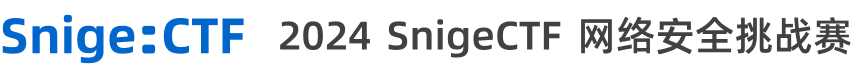
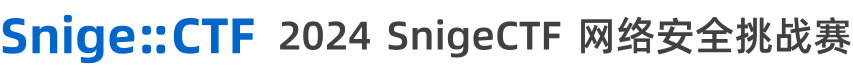
edit title text

Changed region(s): [[0.1524, 0.2571, 0.3048, 0.7714]]

diff --git a/src/GZCTF/ClientApp/src/pages/Index.tsx b/src/GZCTF/ClientApp/src/pages/Index.tsx
@@ -185,7 +185,7 @@ const Home: FC = () => {
                   </div>
                 </div>
                 <div className='centent-introduce-centent'>
-                  <div className='centent-introduce-centent-detail'>2024“源鲁杯”高校网络安全技能大赛是由山东源鲁信息科技有限公司举办的网络安全公开赛事，采用线上CTF解题赛的形式进行。大赛旨在为高校学生提供展示才华和交流学习的平台，重点考核参赛选手的实战能力，致力于发现和培养网络安全领域的高、精、尖人才。</div>
+                  <div className='centent-introduce-centent-detail'>2024 SnigeCTF 网络安全挑战赛是由山东源鲁信息科技有限公司举办的网络安全公开赛事，采用线上CTF解题赛的形式进行。大赛旨在为高校学生提供展示才华和交流学习的平台，重点考核参赛选手的实战能力，致力于发现和培养网络安全领域的高、精、尖人才。</div>
                 </div>
               </div>
               <div className='centent-introduce'>

diff --git a/src/GZCTF/ClientApp/src/components/AccountView.tsx b/src/GZCTF/ClientApp/src/components/AccountView.tsx
@@ -22,7 +22,7 @@ const AccountView: FC<AccountViewProps> = ({ onSubmit, children }) => {
             欢迎登录
           </div>
           <div className="loginCentent">
-            2024“源鲁杯”高校网络安全技能大赛
+            2024 SnigeCTF 网络安全挑战赛
           </div>
         </div>
         <form
